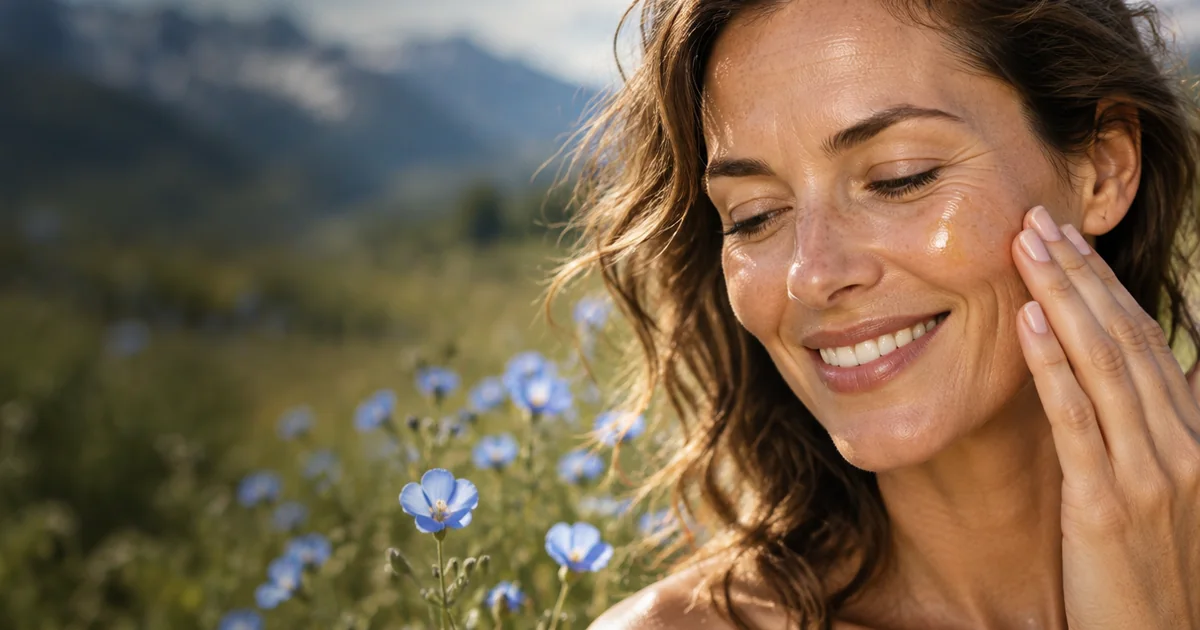
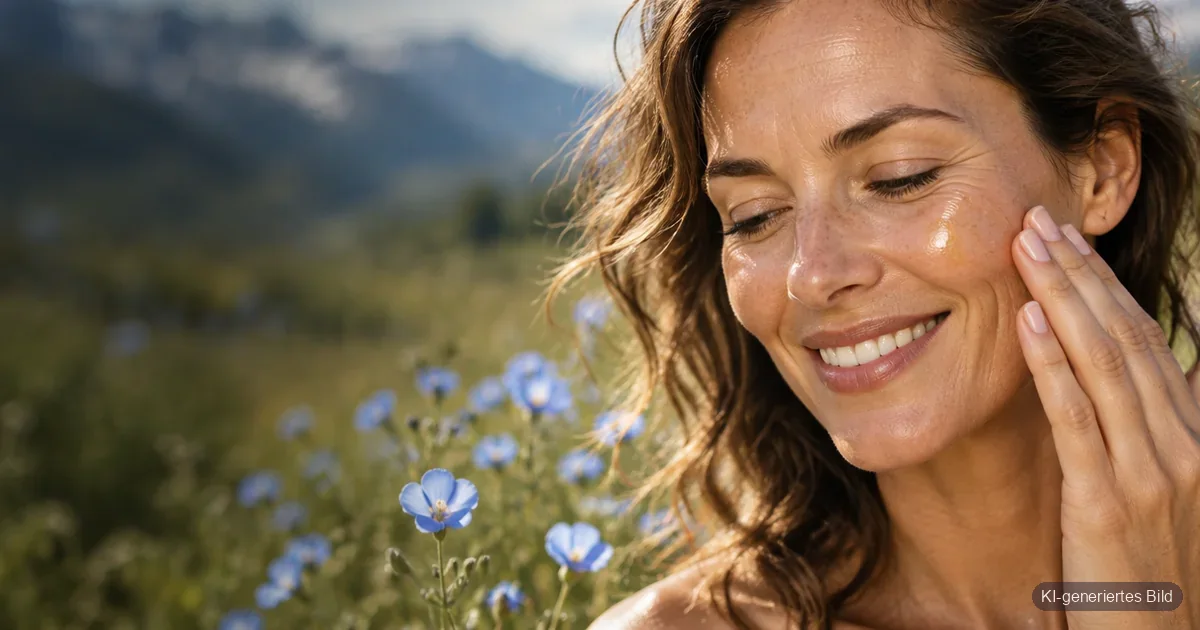
Positiver Einstieg, Mini-CTA, KI-Kennzeichnung

Changed region(s): [[0.8633, 0.9048, 0.9867, 0.9952]]

diff --git a/index.html b/index.html
@@ -389,6 +389,15 @@
   .compare .card .card-title{font-family:'Poppins',sans-serif;font-weight:600;margin:0 0 10px;font-size:18px;line-height:1.25}
   .oils .oil .card-title{font-family:'Poppins',sans-serif;font-weight:600;margin:6px 0 4px;font-size:16.5px;line-height:1.25}
   @media(max-width:600px){.hero img{object-position:78% center}}
+  /* Mini-CTA nach dem Inhaltsverzeichnis */
+  .cta-mini{display:flex;align-items:center;gap:16px;flex-wrap:wrap;background:var(--lav-100);border:1px solid var(--line);border-radius:var(--radius);padding:16px 20px;margin:0 0 30px}
+  .cta-mini p{margin:0;flex:1;min-width:220px;font-size:16px;color:var(--ink)}
+  .cta-mini .btns{display:flex;gap:10px;flex-wrap:wrap}
+  .cta-mini a.mbtn{display:inline-flex;align-items:center;background:var(--purple);color:#fff !important;font-weight:600;font-size:14px;padding:10px 18px;border-radius:50px;white-space:nowrap;text-decoration:none}
+  .cta-mini a.mbtn.ghost{background:#fff;color:var(--purple) !important;border:1.5px solid var(--purple)}
+  .cta-mini a.mbtn:hover{text-decoration:none;opacity:.92}
+  /* KI-Kennzeichnung (EU AI Act Art. 50) */
+  .ai-label{position:absolute;right:14px;bottom:12px;background:rgba(33,27,46,.55);color:#fff;font-size:11px;letter-spacing:.3px;padding:4px 9px;border-radius:50px;backdrop-filter:blur(4px);pointer-events:none}
 </style>
 </head>
 <body>
@@ -413,6 +422,7 @@
 
 <section class="hero">
   <img src="hero-gesichtsoel-trockene-haut.webp" alt="Lächelnde Frau trägt Gesichtsöl mit den Fingerspitzen auf die Wange auf, im Hintergrund blühender Lein auf einer Alpenwiese, Gesichtsöl bei trockener Haut" width="1344" height="752" fetchpriority="high">
+  <span class="ai-label">KI-generiertes Bild</span>
   <div class="hero-overlay">
     <span class="eyebrow">Gesichtspflege · Skin Food</span>
     <h1>Gesichtsöl bei trockener Haut: Warum Leinöl so guttut und wie du es richtig anwendest</h1>
@@ -455,6 +465,16 @@
     <li><a href="#faq">Häufige Fragen</a></li>
   </ol>
 </nav>
+
+<!-- ============ MINI-CTA ============ -->
+<div class="cta-mini">
+  <p>Die Öl-Routine für trockene Haut: Rosentonic, dann Tagesöl oder Nachtöl auf Basis von Bio-Leinöl.</p>
+  <div class="btns">
+    <a class="mbtn" href="https://sannis.at/produkt/sannis-skin-food-tagoel/">Zum Tagesöl</a>
+    <a class="mbtn ghost" href="https://sannis.at/produkt/sannis-skin-food-nachtoel/">Zum Nachtöl</a>
+  </div>
+</div>
+
 
 <!-- ============ SECTION 1 ============ -->
 <h2 id="welches-oel">Welches <span class="accent">Gesichtsöl</span> passt zu trockener Haut?</h2>
